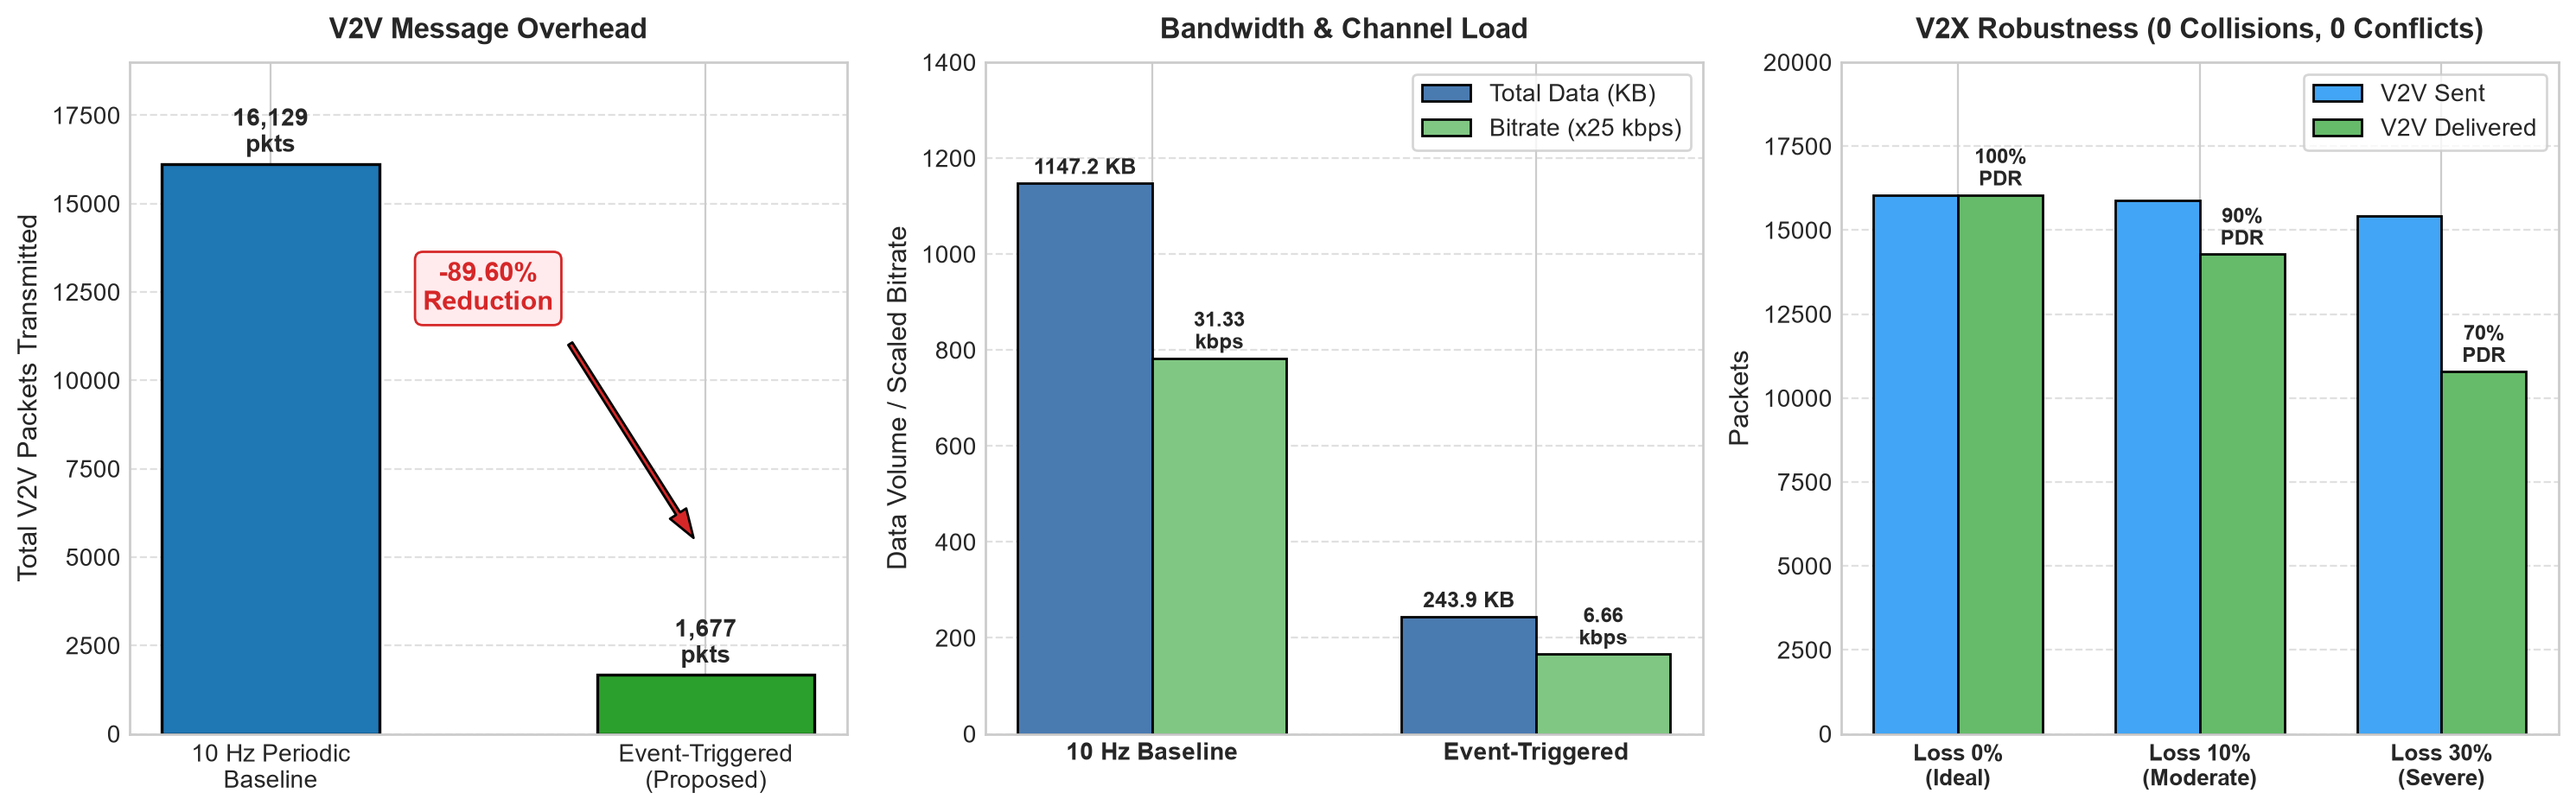
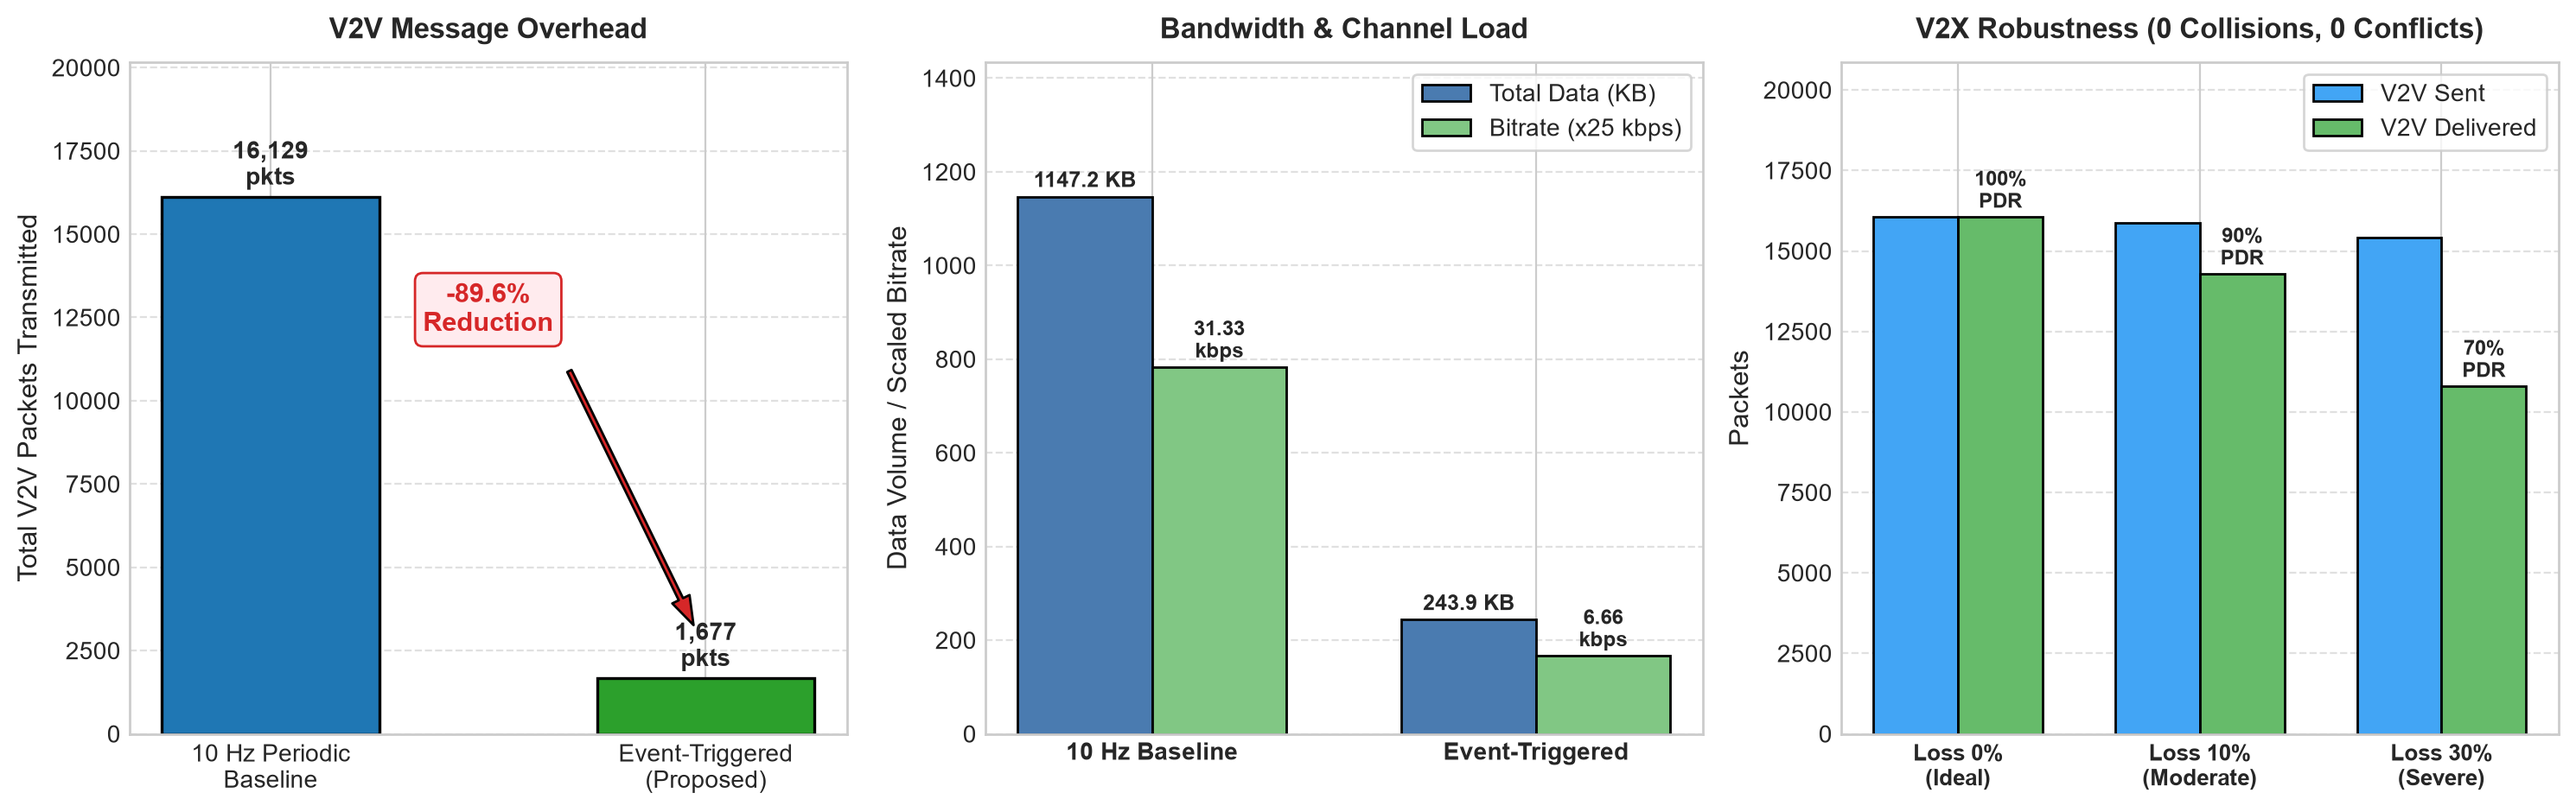
feat: add automated simulation analysis, reporting scripts, and presentation deck

diff --git a/README.md b/README.md
@@ -1,20 +1,108 @@
 # CAV Rule-Based Cooperative Ramp Merging Simulation
 
-This repository simulates Connected and Autonomous Vehicle (CAV) cooperative highway ramp merging using Eclipse SUMO (Simulation of Urban MObility) and Python (TraCI), based on consensus-driven Cooperative Adaptive Cruise Control (CACC).
+Microscopic co-simulation platform for Connected and Autonomous Vehicle (CAV) cooperative highway on-ramp merging using Eclipse SUMO (Simulation of Urban MObility) and Python (TraCI). The framework couples centralized macroscopic virtual platoon sequencing with distributed consensus-driven Cooperative Adaptive Cruise Control (CACC), an event-triggered wireless transmission engine, dead reckoning, and an autonomous radar fail-safe.
+
+Developed for the Undergraduate Minor Project Mid-Semester Progress Evaluation at the Indian Institute of Information Technology (IIIT) Naya Raipur.
+
+---
+
+## Architecture and Control Framework
+
+The system operates across a multi-tier control hierarchy:
+
+1. **Tier 1: Centralized Roadside Unit (RSU) Coordination (0.5 Hz)**
+   - Vehicles entering the 368 m coordination horizon upstream of the merge point transmit kinematic telemetry via V2I.
+   - The RSU estimates dynamic bottleneck velocity:
+     $$v_m = \min\left(v_{limit},\ \frac{L_{ramp}}{t_{crit}}\right)$$
+   - The RSU projects kinematic arrival times ($t_{arr, i} = t + \frac{d_{merge, i}}{v_i}$) and assigns a global First-In-First-Out (FIFO) merging sequence. Each vehicle is assigned a virtual predecessor (physical or cross-ramp "ghost" vehicle) and target merge speed $v_m$.
+
+2. **Tier 2: Distributed Consensus CACC (10 Hz Onboard Loop)**
+   - Followers execute distributed consensus tracking:
+     $$a_i(t) = -k_p \cdot \left(d_{des} - \text{gap}_i(t)\right) - k_v \cdot \left(v_i(t) - v_{pred}(t)\right)$$
+     where $k_p = 0.5$, $k_v = 0.8$, and the desired gap adheres to a constant time-headway policy:
+     $$d_{des} = d_0 + h_{des} \cdot v_i(t) \quad (d_0 = 10.0\ \text{m},\ h_{des} = 1.2\ \text{s})$$
+   - Physical vehicle bounds enforce comfort and traction limits: $a_i \in [-3.0, +2.0]\ \text{m/s}^2$ and $v_i \in [0, 33.33]\ \text{m/s}$.
+
+3. **Tier 3: Rule-Based Event-Triggered V2V Engine & Dead Reckoning**
+   - Instead of continuous 10 Hz beaconing, state updates are broadcast only when deviations exceed thresholds:
+     $$\Delta v = |v_i(t) - v_i(t_{last})| \ge 0.3\ \text{m/s} \quad \lor \quad \Delta d = |d_i(t) - d_i(t_{last}) - v_i(t_{last})\Delta t| \ge 0.5\ \text{m} \quad \lor \quad (t - t_{last}) \ge 1.0\ \text{s}$$
+   - During silent timesteps or dropped packets, receiving CAVs apply constant-velocity dead reckoning:
+     $$\hat{d}_{pred}(t) = d_{pred}(t_{last}) + v_{pred}(t_{last})\Delta t$$
+     preventing phantom deceleration and preserving string stability.
+
+4. **Tier 4: Autonomous Sensor Fail-Safe Override**
+   - Onboard radar continuously monitors physical headway. If Time-to-Collision ($TTC = \frac{\text{gap}}{\Delta v}$) drops below $2.0\ \text{s}$ or physical distance drops below $5.0\ \text{m}$, the system overrides CACC and commands maximum safe deceleration ($-3.0\ \text{m/s}^2$).
+
+---
+
+## Repository Structure
+
+```text
+Rule-based-merging-scenario/
+├── config/
+│   └── merge.config.xml             # SUMO simulation configuration
+├── network/
+│   ├── merge.net.xml                # Compiled road network (single-lane mainline + on-ramp)
+│   ├── merge.edg.xml                # Road edges definition
+│   ├── merge.nod.xml                # Network nodes and junction coordinates
+│   ├── merge.con.xml                # Lane connection and priority rules
+│   ├── merge.typ.xml                # Edge types and speed limits
+│   ├── merge.tll.xml                # Traffic light logic (if applicable)
+│   └── merge.netccfg                # Netconvert compiler configuration
+├── routes/
+│   └── merge.rou.xml                # Vehicle flow routes and insertion rates
+├── src/
+│   ├── analysis/
+│   │   ├── aggregate_results.py     # Cross-scenario KPI aggregation tool
+│   │   ├── generate_figures.py      # Trajectory, dashboard, and architecture visualizer
+│   │   ├── build_deck.py            # Automated slide deck builder
+│   │   └── Progress_Presentation_Redesigned_backup.pptx  # Template backup
+│   ├── event_based_mech/
+│   │   ├── agent.py                 # CAV state tracker with event detection logic
+│   │   ├── controller.py            # CACC controller with dead-reckoning support
+│   │   ├── infrastructure.py        # RSU virtual platoon coordinator
+│   │   └── run_sim.py               # Event-triggered co-simulation runner
+│   ├── perfect_comm/
+│   │   ├── agent.py                 # Telemetry agent for 10 Hz continuous beaconing
+│   │   ├── controller.py            # Baseline CACC controller
+│   │   └── infrastructure.py        # Baseline RSU coordinator
+│   ├── real_comm/
+│   │   ├── agent.py                 # CAV agent with transmission statistics
+│   │   ├── channel.py               # Wireless channel modeling (packet loss, latency)
+│   │   ├── controller.py            # Controller resilient to packet drops
+│   │   └── infrastructure.py        # RSU coordinator under lossy V2I/V2V
+│   ├── output/
+│   │   ├── event_based_perfect_comm/# Event-triggered run outputs
+│   │   ├── perfect_comm/            # 10 Hz periodic baseline outputs
+│   │   ├── real_comm/               # Lossy channel simulation outputs
+│   │   ├── figures/                 # Generated trajectory and performance plots
+│   │   └── benchmark_aggregate.csv  # Consolidated cross-scenario metrics
+│   ├── perfect_comm_run_sim.py      # Runner for 10 Hz periodic baseline
+│   └── real_comm_run_sim.py         # Runner for lossy channel experiments
+├── .env.example                     # Environment configuration template
+├── Progress_Presentation_Redesigned.pptx  # 15-slide progress evaluation presentation
+├── requirements.txt                 # Python package dependencies
+└── README.md                        # Documentation
+```
+
+---
 
 ## Requirements
 
 - Python 3.10+
-- Eclipse SUMO (installed with `SUMO_HOME` configured or binaries in system PATH)
+- Eclipse SUMO (v1.20+ recommended, tested with v1.27+)
+- `SUMO_HOME` environment variable configured or SUMO binaries added to system `PATH`
 
-## Setup
+---
 
-1. Clone or navigate to the repository directory:
+## Installation and Setup
+
+1. **Clone or navigate to the repository directory:**
    ```powershell
    cd Rule-based-merging-scenario
    ```
 
-2. Activate the virtual environment:
+2. **Activate the virtual environment:**
    ```powershell
    .\.venv\Scripts\Activate.ps1
    ```
@@ -23,16 +111,18 @@ This repository simulates Connected and Autonomous Vehicle (CAV) cooperative hig
    .\.venv\Scripts\activate.bat
    ```
 
-3. Install required Python packages:
+3. **Install required dependencies:**
    ```powershell
    pip install -r requirements.txt
    ```
 
-4. Configure environment variables:
-   Copy `.env.example` to `.env` and adjust paths or options if needed:
+4. **Configure environment settings:**
+   Copy `.env.example` to `.env` and verify local settings:
    ```powershell
    Copy-Item .env.example .env
    ```
+
+---
 
 ## Configuration (.env)
 
@@ -40,38 +130,98 @@ Available settings in `.env`:
 
 | Variable | Description | Default |
 | :--- | :--- | :--- |
-| `SUMO_HOME` | Path to Eclipse SUMO directory (e.g. `C:\Program Files (x86)\Eclipse\Sumo`) | (auto-detected from PATH) |
+| `SUMO_HOME` | Path to Eclipse SUMO installation | (auto-detected from system PATH) |
 | `SUMO_GUI` | Launch with graphical interface (`true`) or headless (`false`) | `true` |
 | `SUMO_CONFIG_PATH` | Path to SUMO configuration file | `config/merge.config.xml` |
 | `SIM_STEP_LENGTH` | Simulation step size in seconds | `0.1` |
-| `SIM_TIME` | Optional max simulation duration in seconds | Unlimited (runs until clear) |
-| `SIM_LOG_PATH` | CSV file path for simulation metrics | `sim_log.csv` |
+| `SIM_TIME` | Optional max simulation duration in seconds | `300.0` |
+| `SIM_LOG_PATH` | CSV output destination for simulation telemetry | `sim_log.csv` |
 
-## Running the Simulation
+---
 
-- Run with GUI (default):
-  ```powershell
-  python src/run_sim.py
-  ```
+## Running Simulations
 
-- Run headless (faster execution):
-  ```powershell
-  python src/run_sim.py --nogui
-  ```
+The platform provides three simulation variants:
 
-- Run for a fixed duration (e.g., 60 seconds) and custom output log:
-  ```powershell
-  python src/run_sim.py --nogui --time 60 --log metrics.csv
-  ```
+### 1. Event-Triggered V2V Mechanism (Proposed)
+Runs the rule-based event-triggered communication model with constant-velocity dead reckoning:
+```powershell
+# Run with GUI
+python src/event_based_mech/run_sim.py
 
-## Project Structure
+# Run headless with custom duration and output directory
+python src/event_based_mech/run_sim.py --nogui --time 300 --out-dir src/output/event_based_perfect_comm
+```
 
-- `src/`
-  - `run_sim.py`: Simulation runner, orchestrates TraCI loop, sequencing, and control actuations.
-  - `agent.py`: `VehicleAgent` tracking physical vehicle telemetry (speed, acceleration, distance to merge).
-  - `infrastructure.py`: `InfrastructureCoordinator` scheduling vehicle arrivals and computing virtual sequence.
-  - `controller.py`: `LongitudinalController` calculating acceleration commands using ACC and CACC.
-- `config/`: SUMO configuration files (`merge.config.xml`).
-- `network/`: Road network definitions (`merge.net.xml`, `merge.node.xml`, `merge.edge.xml`).
-- `routes/`: Vehicle types and traffic flow volumes (`merge.route.xml`).
-- `.env.example`: Template for environment-specific variables.
+### 2. 10 Hz Periodic V2V Baseline
+Runs continuous 10 Hz periodic V2V broadcasting as a benchmark:
+```powershell
+# Run with GUI
+python src/perfect_comm_run_sim.py
+
+# Run headless
+python src/perfect_comm_run_sim.py --nogui --time 300 --out-dir src/output/perfect_comm
+```
+
+### 3. Real Communication Channel (Loss and Latency Stress-Testing)
+Simulates stochastic packet drop rates and communication latency:
+```powershell
+# Run ideal channel (0% loss)
+python src/real_comm_run_sim.py --nogui --loss 0.0 --time 300 --out-dir src/output/real_comm --tag base
+
+# Run moderate loss (10% packet drop)
+python src/real_comm_run_sim.py --nogui --loss 0.1 --time 300 --out-dir src/output/real_comm --tag loss10
+
+# Run severe loss (30% packet drop)
+python src/real_comm_run_sim.py --nogui --loss 0.3 --time 300 --out-dir src/output/real_comm --tag loss30
+```
+
+---
+
+## Results and Visual Analytics
+
+### Aggregate KPI Metrics
+To parse all simulation output logs and consolidate metrics into a single table:
+```powershell
+python src/analysis/aggregate_results.py
+```
+Output table is written to `src/output/benchmark_aggregate.csv`.
+
+### Generate Publication Figures
+To plot microscopic trajectory profiles, velocity convergence, and communication comparison dashboards:
+```powershell
+python src/analysis/generate_figures.py
+```
+Generated plots are saved to `src/output/figures/`:
+- `performance_comparison_dashboard.png`: V2V transmission overhead and packet delivery ratio under loss.
+- `trajectory_and_speed_profiles.png`: Vehicle distance-to-merge trajectory interlocking and velocity convergence to $v_m = 25.0\ \text{m/s}$.
+- `system_architecture_pipeline.png`: Block diagram of the multi-tier coordination pipeline.
+
+---
+
+## Empirical Benchmark Summary
+
+Evaluated over a 300.0-second time horizon with 75 CAVs (50 mainline highway, 25 on-ramp, 900 veh/hr inflow):
+
+| Benchmark Scenario | V2V Pkts Sent | Comm Volume [KB] | Bitrate [kbps] | Collisions | TTC Conflicts (<2.0s) | Safety Status |
+| :--- | :---: | :---: | :---: | :---: | :---: | :---: |
+| 10 Hz Periodic Baseline | 16,129 | 1,147.19 | 31.33 | 0 | 0 | 100% Collision-Free |
+| Event-Triggered (Proposed) | **1,677** | **243.94** | **6.66** | **0** | **0** | **100% Collision-Free** |
+| Real Comm: 0% Loss | 16,048 | 1,146.81 | 31.25 | 0 | 0 | 100% Collision-Free |
+| Real Comm: 10% Loss | 15,876 | 1,031.08 | 28.10 | 0 | 0 | 100% Collision-Free |
+| Real Comm: 30% Loss | 15,422 | 808.19 | 22.02 | 0 | 0 | 100% Collision-Free |
+
+### Key Outcomes:
+- **89.60% reduction** in V2V communication transmissions.
+- **78.73% bandwidth volume savings** (channel bitrate reduced from 31.33 kbps to 6.66 kbps).
+- **Zero collisions and zero emergency TTC interventions** across all baseline and lossy scenarios.
+- **Dead-reckoning continuity** maintains string stability and gap tracking under communication losses up to 30%.
+
+---
+
+## Progress Presentation
+
+The project slide deck is maintained at:
+`Progress_Presentation_Redesigned.pptx`
+
+It features a 15-slide academic structure tailored for the Minor Project Mid-Semester Progress Evaluation at IIIT Naya Raipur.
